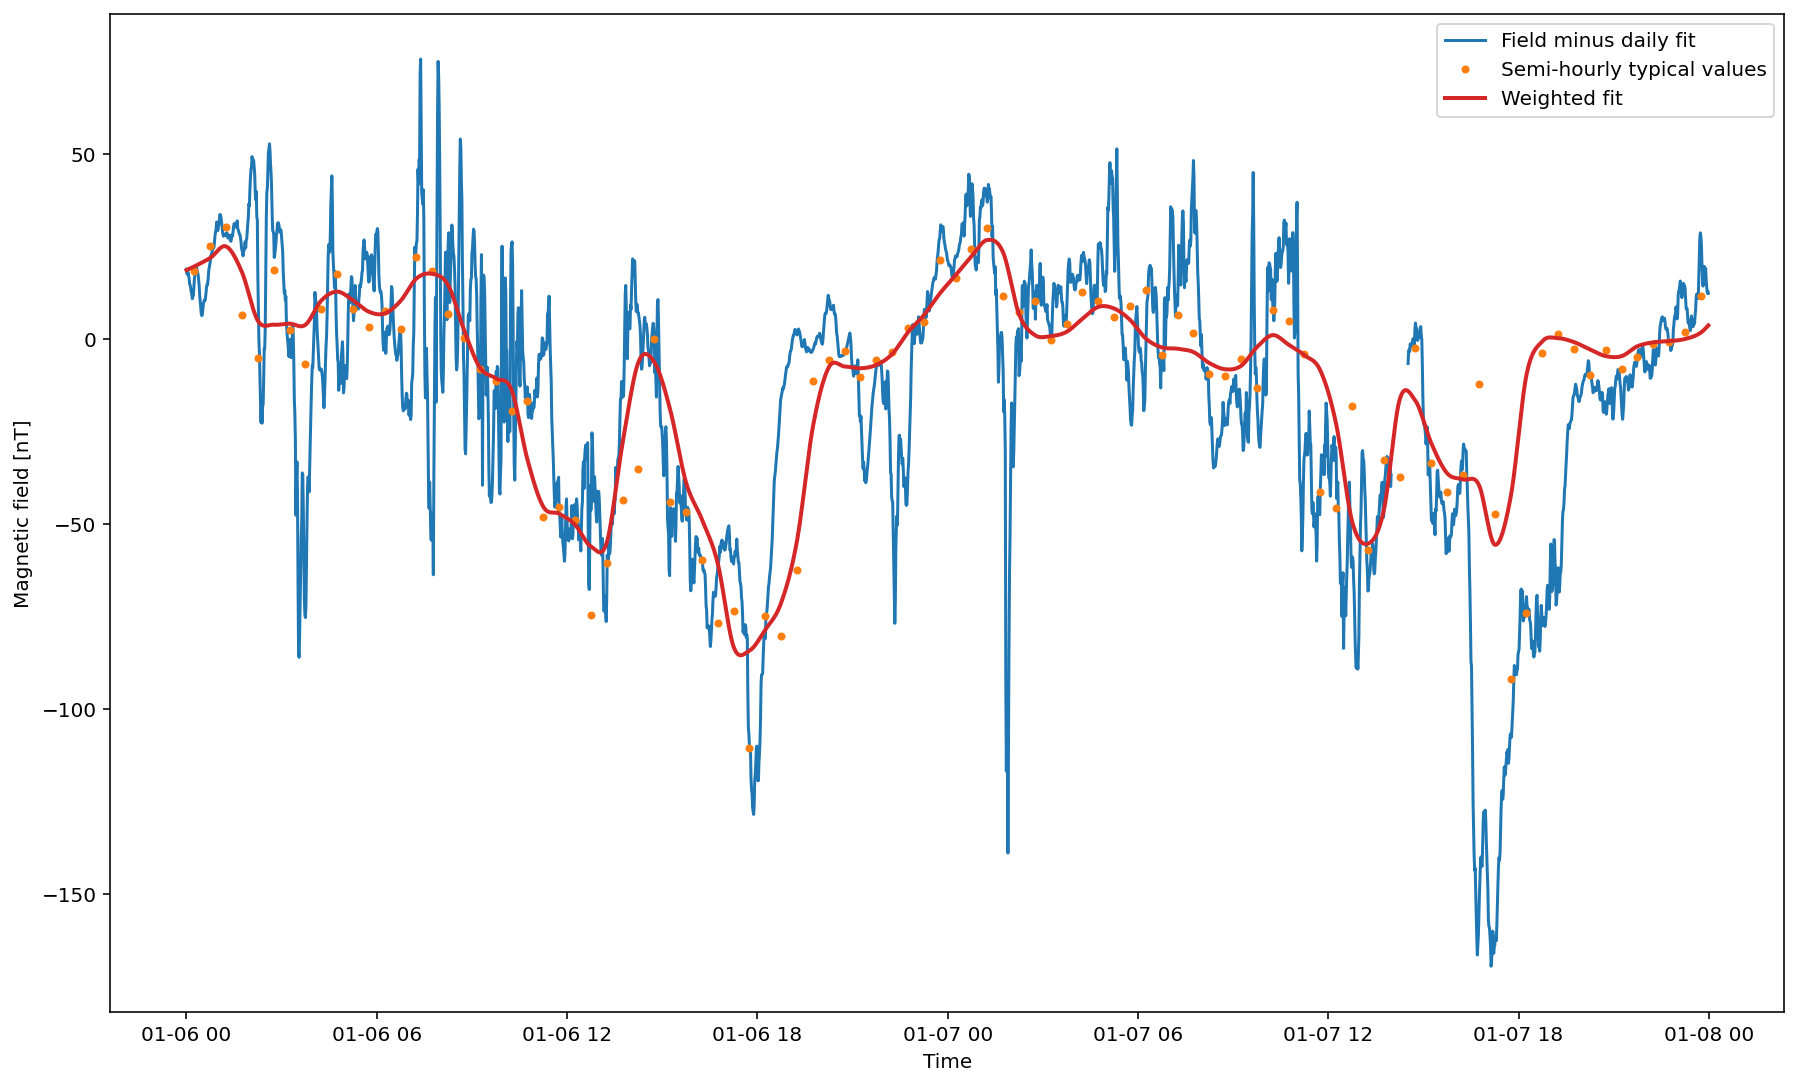
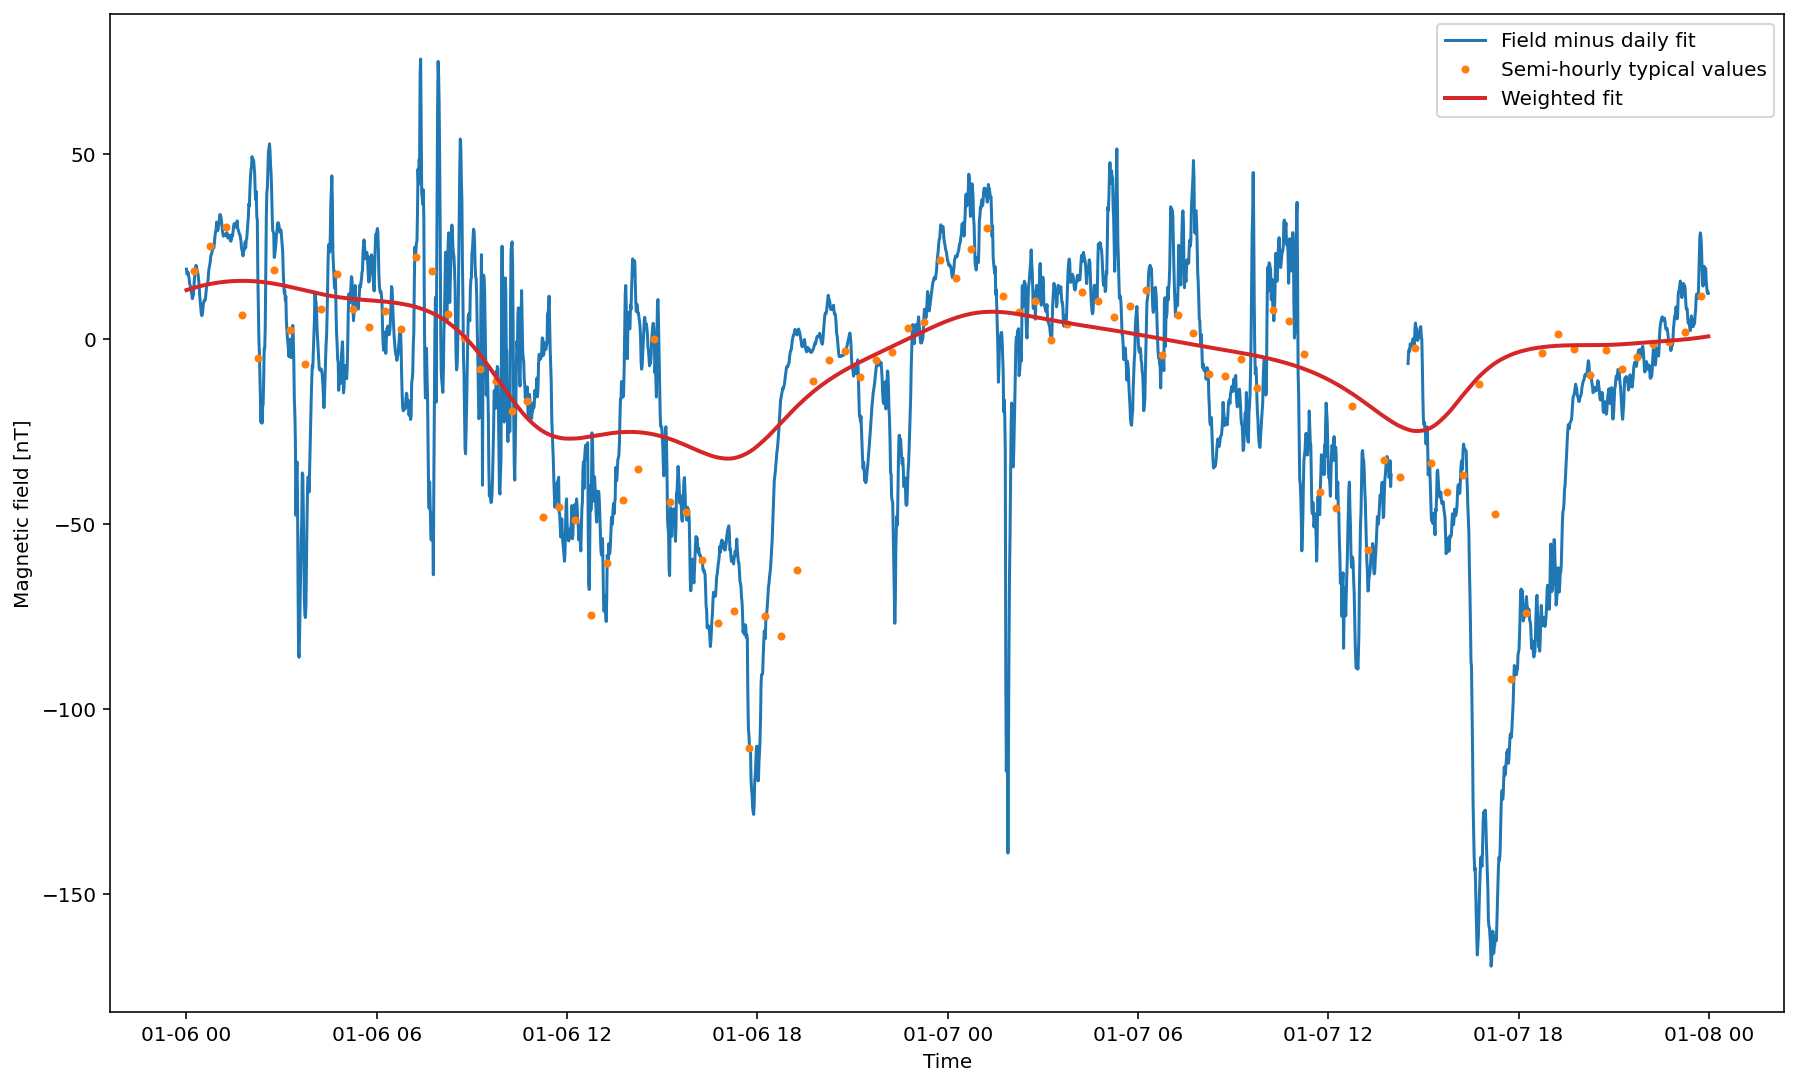
Adding adaptive window for fitting

diff --git a/baseline/baseline_estimator.py b/baseline/baseline_estimator.py
@@ -100,9 +100,9 @@ class BaselineEstimator:
                         break
                     window_days += 2
 
-                if not np.isfinite(value) and fallback is not None:
-                    # Fall back to the widest finite estimate if the threshold is never met.
-                    value, sigma, window_days = fallback
+                if not np.isfinite(value):
+                    sigma = np.nan
+                    window_days = np.nan
     
                 timestamp = day + pd.Timedelta(minutes=30 * b + 15)
                 results.append((timestamp, value))
@@ -116,18 +116,26 @@ class BaselineEstimator:
         idx, vals = zip(*weight)
         self.QD_step_1c_w = pd.Series(vals, index=pd.to_datetime(idx)).sort_index()
        
-    def step_1d(self, a=-0.01, sigma_days=1/48):
+    def step_1d(self, a=-.5, sigma_days=1/(3*24)):
         """Step 1d: smooth the semi-hourly estimates and resample to full cadence."""
         t_nodes = self.QD_step_1c.index.values.astype('datetime64[s]').astype(float)
         y_nodes = self.QD_step_1c.values
         w_nodes = self.QD_step_1c_w.values
-        y_smooth = weighted_gaussian_smooth(
-            t_nodes, y_nodes, w_nodes, sigma_days=sigma_days
+        y_smooth, sig_m = weighted_gaussian_smooth(
+            t_nodes,
+            y_nodes,
+            w_nodes,
+            sigma_days=sigma_days,
+            min_relative_weight=0.0,
+            adaptive_sigma=True,
+            max_sigma_multiplier=6.0,
         )
     
         t_full = self.df["datetime"].values.astype('datetime64[s]').astype(float)
         y_interp = cubic_convolution_interpolate(t_nodes, y_smooth, t_full, a=a)
     
+        self.y_smooth = y_smooth
+        self.sig_m = sig_m
         self.df["QD"] = y_interp
 
     def step_1e(self):
@@ -190,8 +198,9 @@ class BaselineEstimator:
                     break
                 window_days += 2
 
-            if not np.isfinite(value) and fallback is not None:
-                value, u, window_days = fallback
+            if not np.isfinite(value):
+                u = np.nan
+                window_days = np.nan
     
             timestamp = day + pd.Timedelta(hours=12)
             denom = u * window_days / 17
@@ -207,7 +216,7 @@ class BaselineEstimator:
         t_nodes = self.QD_step_2a.index.values.astype('datetime64[s]').astype(float)
         y_nodes = self.QD_step_2a.values
         w_nodes = self.QD_step_2a_w.values
-        y_smooth = weighted_gaussian_smooth(
+        y_smooth, _ = weighted_gaussian_smooth(
             t_nodes, y_nodes, w_nodes, sigma_days=sigma_days
         )
     
@@ -319,16 +328,44 @@ def cubic_convolution_weight(x, a=-0.5):
     return float(w) if np.ndim(w) == 0 else w
 
 
-def weighted_gaussian_smooth(t_nodes, y_nodes, w_nodes, sigma_days):
+def weighted_gaussian_smooth(
+    t_nodes,
+    y_nodes,
+    w_nodes,
+    sigma_days,
+    min_relative_weight=0.0,
+    adaptive_sigma=False,
+    max_sigma_multiplier=1.0,
+):
     """Apply Gaussian temporal smoothing with user-supplied point weights."""
     y_smooth = np.zeros_like(y_nodes)
-    sigma = sigma_days * 86400.0
+    sig_m = np.ones_like(y_nodes)
+    base_sigma = sigma_days * 86400.0
+    finite_weights = w_nodes[np.isfinite(w_nodes) & (w_nodes > 0)]
+    global_max_weight = np.max(finite_weights) if finite_weights.size > 0 else np.nan
+
+    sigma_values = np.full_like(y_nodes, base_sigma, dtype=float)
+    if adaptive_sigma and np.isfinite(global_max_weight):
+        finite = np.isfinite(w_nodes) & (w_nodes > 0)
+        relative_weight = np.full_like(w_nodes, np.nan, dtype=float)
+        relative_weight[finite] = w_nodes[finite] / global_max_weight
+
+        sigma_multiplier = np.ones_like(w_nodes, dtype=float)
+        sigma_multiplier[finite] = 1.0 / np.sqrt(relative_weight[finite])
+        sigma_multiplier = np.clip(sigma_multiplier, 1.0, max_sigma_multiplier)
+
+        sigma_values[finite] = base_sigma * sigma_multiplier[finite]
+        sig_m = sigma_multiplier
 
     for i, ti in tqdm(enumerate(t_nodes), total=t_nodes.size, desc='Smoothing'):
         dt = t_nodes - ti
-        temporal_weights = np.exp(-0.5 * (dt / sigma)**2)
+        temporal_weights = np.exp(-0.5 * (dt / sigma_values)**2)
         weights = w_nodes * temporal_weights
-        mask = np.isfinite(y_nodes) & np.isfinite(weights)
+        mask = np.isfinite(y_nodes) & np.isfinite(weights) & (weights > 0)
+
+        if np.any(mask) and min_relative_weight > 0:
+            local_max = np.max(weights[mask])
+            mask &= weights >= min_relative_weight * local_max
 
         if np.sum(mask) == 0:
             y_smooth[i] = np.nan
@@ -339,7 +376,7 @@ def weighted_gaussian_smooth(t_nodes, y_nodes, w_nodes, sigma_days):
             else:
                 y_smooth[i] = np.sum(y_nodes[mask] * weights[mask]) / weight_sum
 
-    return y_smooth
+    return y_smooth, sig_m
 
 
 def _get_max_odd_window_size(num_days):

diff --git a/scripts/example_with_synthetic_data.py b/scripts/example_with_synthetic_data.py
@@ -17,8 +17,7 @@ def save_figure(fig, filename):
     fig.savefig(FIGURE_DIR / filename, bbox_inches="tight")
     plt.close(fig)
 
-
-def main():
+if __name__ == "__main__":
     """Run the synthetic-data example and write diagnostic plots."""
     be_truth = np.load(DATA_DIR / "Be_truth.npy")
     bn_truth = np.load(DATA_DIR / "Bn_truth.npy")
@@ -122,7 +121,3 @@ def main():
     plt.xlabel("Time")
     plt.legend()
     save_figure(fig, "step_2d.png")
-
-
-if __name__ == "__main__":
-    main()

diff --git a/scripts/example_with_real_data.py b/scripts/example_with_real_data.py
@@ -49,8 +49,8 @@ def compute_mlat(t, glat, glon):
     apex_by_year = {}
 
     for i, ti in tqdm(enumerate(t), total=t.size, desc="Compute mlat"):
-        timestamp = pd.Timestamp(ti).to_pydatetime()
-        apex = apex_by_year.setdefault(timestamp.year, Apex(timestamp.year, refh=0))
+        year = pd.Timestamp(ti).year
+        apex = apex_by_year.setdefault(year, Apex(year, refh=0))
         mlat[i] = apex.convert(glat, glon, "geo", "apex", height=0)[0]
 
     return mlat

diff --git a/baseline/coordinate_rotator.py b/baseline/coordinate_rotator.py
@@ -76,7 +76,7 @@ class CoordinateRotator:
         t_nodes = self.q_daily.index.values.astype("datetime64[s]").astype(float)
         y_nodes = self.q_daily.values
         weights = np.ones_like(y_nodes, dtype=float)
-        self.q_smooth = weighted_gaussian_smooth(
+        self.q_smooth, self.q_sigma_multiplier = weighted_gaussian_smooth(
             t_nodes,
             y_nodes,
             weights,
